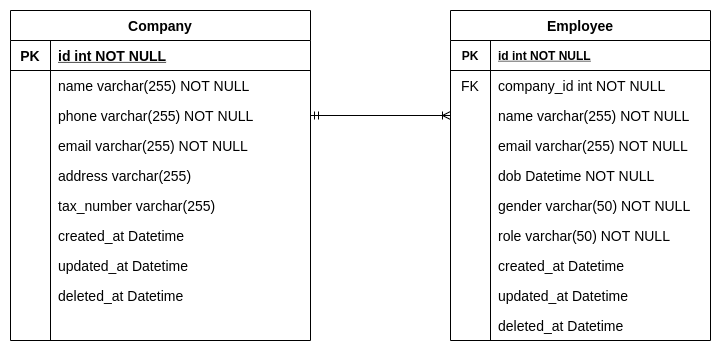
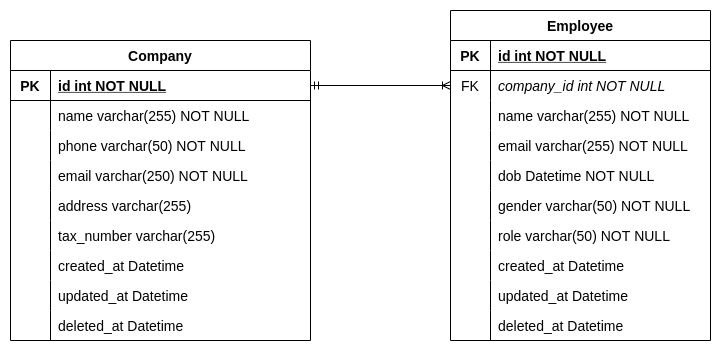
Update Instruction

diff --git a/migration/versions/20211002000000.go b/migration/versions/20211002000000.go
@@ -1,18 +1,22 @@
 package versions
 
 import (
-    "gorm.io/gorm"
+	"gorm.io/gorm"
+	"time"
 )
 
 func Version20211002000000(tx *gorm.DB) error {
-    type Company struct {
-        gorm.Model
-        Name      string `gorm:"TYPE:VARCHAR(255) CHARACTER SET utf8mb4 COLLATE utf8mb4_unicode_ci"`
-        Phone     string `gorm:"TYPE:VARCHAR(255) CHARACTER SET utf8mb4 COLLATE utf8mb4_unicode_ci"`
-        Email     string `gorm:"TYPE:VARCHAR(255) CHARACTER SET utf8mb4 COLLATE utf8mb4_unicode_ci"`
-        Address   string `gorm:"TYPE:VARCHAR(255) CHARACTER SET utf8mb4 COLLATE utf8mb4_unicode_ci"`
-        TaxNumber string `gorm:"TYPE:VARCHAR(255) CHARACTER SET utf8mb4 COLLATE utf8mb4_unicode_ci"`
-    }
+	type Company struct {
+		ID        uint   `gorm:"TYPE:BIGINT(20) UNSIGNED AUTO_INCREMENT;NOT NULL;PRIMARY_KEY"`
+		Name      string `gorm:"TYPE:VARCHAR(255) CHARACTER SET utf8mb4 COLLATE utf8mb4_unicode_ci;NOT NULL"`
+		Phone     string `gorm:"TYPE:VARCHAR(50) CHARACTER SET utf8mb4 COLLATE utf8mb4_unicode_ci;NOT NULL"`
+		Email     string `gorm:"TYPE:VARCHAR(250) CHARACTER SET utf8mb4 COLLATE utf8mb4_unicode_ci;NOT NULL"`
+		Address   string `gorm:"TYPE:VARCHAR(255) CHARACTER SET utf8mb4 COLLATE utf8mb4_unicode_ci"`
+		TaxNumber string `gorm:"TYPE:VARCHAR(255) CHARACTER SET utf8mb4 COLLATE utf8mb4_unicode_ci"`
+		CreatedAt time.Time
+		UpdatedAt time.Time
+		DeletedAt gorm.DeletedAt `gorm:"index"`
+	}
 
-    return tx.AutoMigrate(&Company{})
+	return tx.AutoMigrate(&Company{})
 }

diff --git a/company/data.go b/company/data.go
@@ -8,19 +8,16 @@ import (
     pb "github.com/dinhtp/lets-go-pbtype/company"
 )
 
-func prepareDataToResponse(c *model.Company) *pb.Company{
-    data := &pb.Company{
-        Id:                   fmt.Sprintf("%d", c.ID),
-        Name:                 c.Name,
-        Phone:                c.Phone,
-        Email:                c.Email,
-        Address:              c.Address,
-        TaxNumber:            c.TaxNumber,
-        CreatedAt:            c.CreatedAt.Format(time.RFC3339),
-        UpdatedAt:            c.UpdatedAt.Format(time.RFC3339),
+func prepareDataToResponse(c *model.Company) *pb.Company {
+    return &pb.Company{
+        Id:            fmt.Sprintf("%d", c.ID),
+        Name:          c.Name,
+        Phone:         c.Phone,
+        Email:         c.Email,
+        Address:       c.Address,
+        TaxNumber:     c.TaxNumber,
+        TotalEmployee: 0, // TODO: Calculate total employee
+        CreatedAt:     c.CreatedAt.Format(time.RFC3339),
+        UpdatedAt:     c.UpdatedAt.Format(time.RFC3339),
     }
-
-    // TODO: Calculate total employee
-
-    return data
 }

diff --git a/migration/seeder/company.go b/migration/seeder/company.go
@@ -8,12 +8,15 @@ import (
 )
 
 type Company struct {
-    gorm.Model
+    ID        uint
     Name      string `faker:"domain_name"`
     Phone     string `faker:"toll_free_number"`
     Email     string `faker:"email"`
     Address   string `faker:"sentence"`
     TaxNumber string `faker:"phone_number"`
+    CreatedAt time.Time
+    UpdatedAt time.Time
+    DeletedAt gorm.DeletedAt
 }
 
 func FakeCompany() (Company, error) {

diff --git a/model/company.go b/model/company.go
@@ -1,14 +1,18 @@
 package model
 
 import (
-    "gorm.io/gorm"
+	"gorm.io/gorm"
+	"time"
 )
 
 type Company struct {
-    gorm.Model
-    Name      string
-    Phone     string
-    Email     string
-    Address   string
-    TaxNumber string
+	ID        uint
+	Name      string
+	Phone     string
+	Email     string
+	Address   string
+	TaxNumber string
+	CreatedAt time.Time
+	UpdatedAt time.Time
+	DeletedAt gorm.DeletedAt
 }

diff --git a/migration/seeder/seeder.go b/migration/seeder/seeder.go
@@ -20,7 +20,6 @@ func CreateFakeCompany(db *gorm.DB) error {
             return err
         }
 
-        co.ID = uint(i)
         err = db.Create(&co).Error
         if nil != err {
             return err

diff --git a/README.md b/README.md
@@ -8,12 +8,9 @@ Rest service will handle the http requests while gRPC will handle the rpc reques
 The company and employee ERD can be referred below:
 ![company-employee ERD](./asset/company-employee.png)
 
-The company and employee Pbtype can be referred below:
-![Pbtype](./asset/pbtype.png)
-
 ## Expected Output
-* Bring up the service by Docker compose.
-* Execute Migration and Seeding successfully.
+* Build `go-company-service` image and bring up the services in `docker-compose.yml`.
+* Execute database migration and seeding.
 * Expose company API resources endpoint which includes:
     * Create a company.
     * Get a company by an id.
@@ -28,4 +25,34 @@ The company and employee Pbtype can be referred below:
     * list employee by company id, page and limit.
 * Calculate the current total employee of a company.
 
-> NOTE: DO NOT commit changes directly into the master branch.
+## Sample JSON response:
+### Company
+```
+{
+    "id": "string",
+    "name": "string",
+    "phone": "string",
+    "email": "string",
+    "address": "string",
+    "tax_number": "string",
+    "total_employee": 0,
+    "created_at": "string",
+    "updated_at": "string"
+}
+```
+### Employee
+```
+{
+    "id": "string",
+    "company_id": "string",
+    "name": "string",
+    "email": "string",
+    "dob": "string",
+    "gender": "string", // allowed values: "male", "female", "not_specified"
+    "role": "string", // allowed values: "manager", "staff", "intern""
+    "created_at": "string",
+    "updated_at": "string"
+}
+```
+
+> NOTE: DO NOT commit changes directly into the master branch. Make your own master branch.
